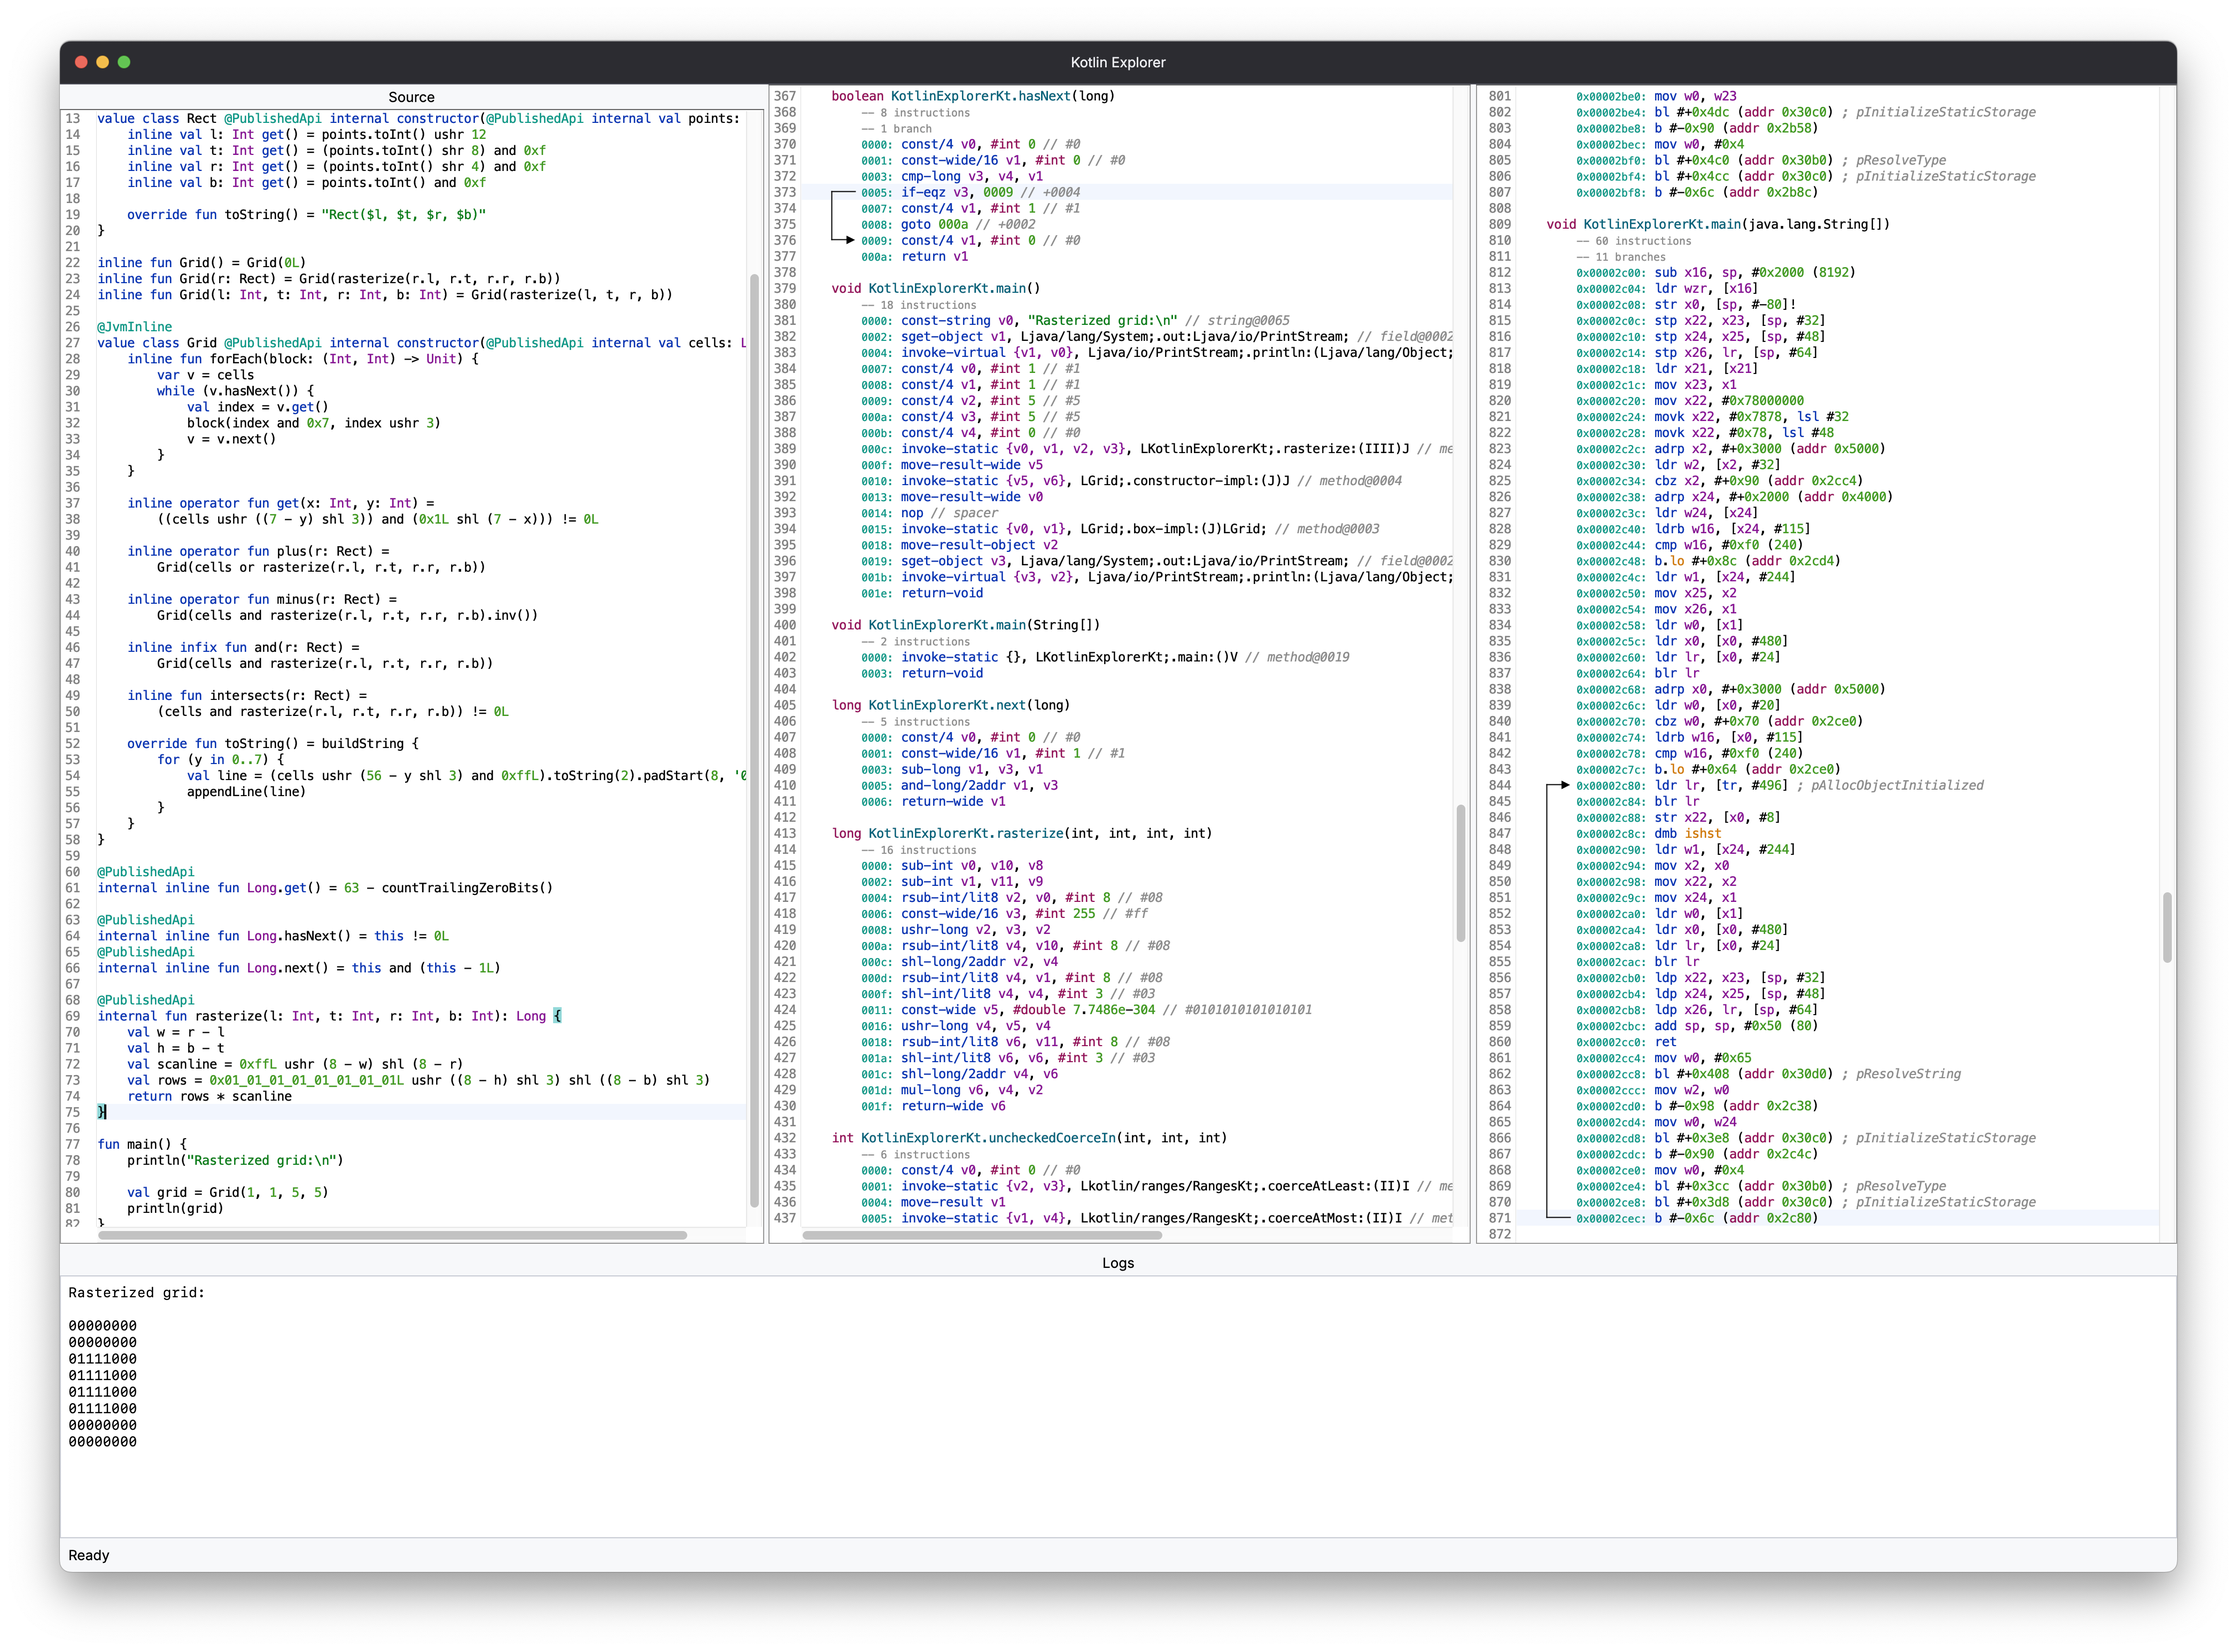
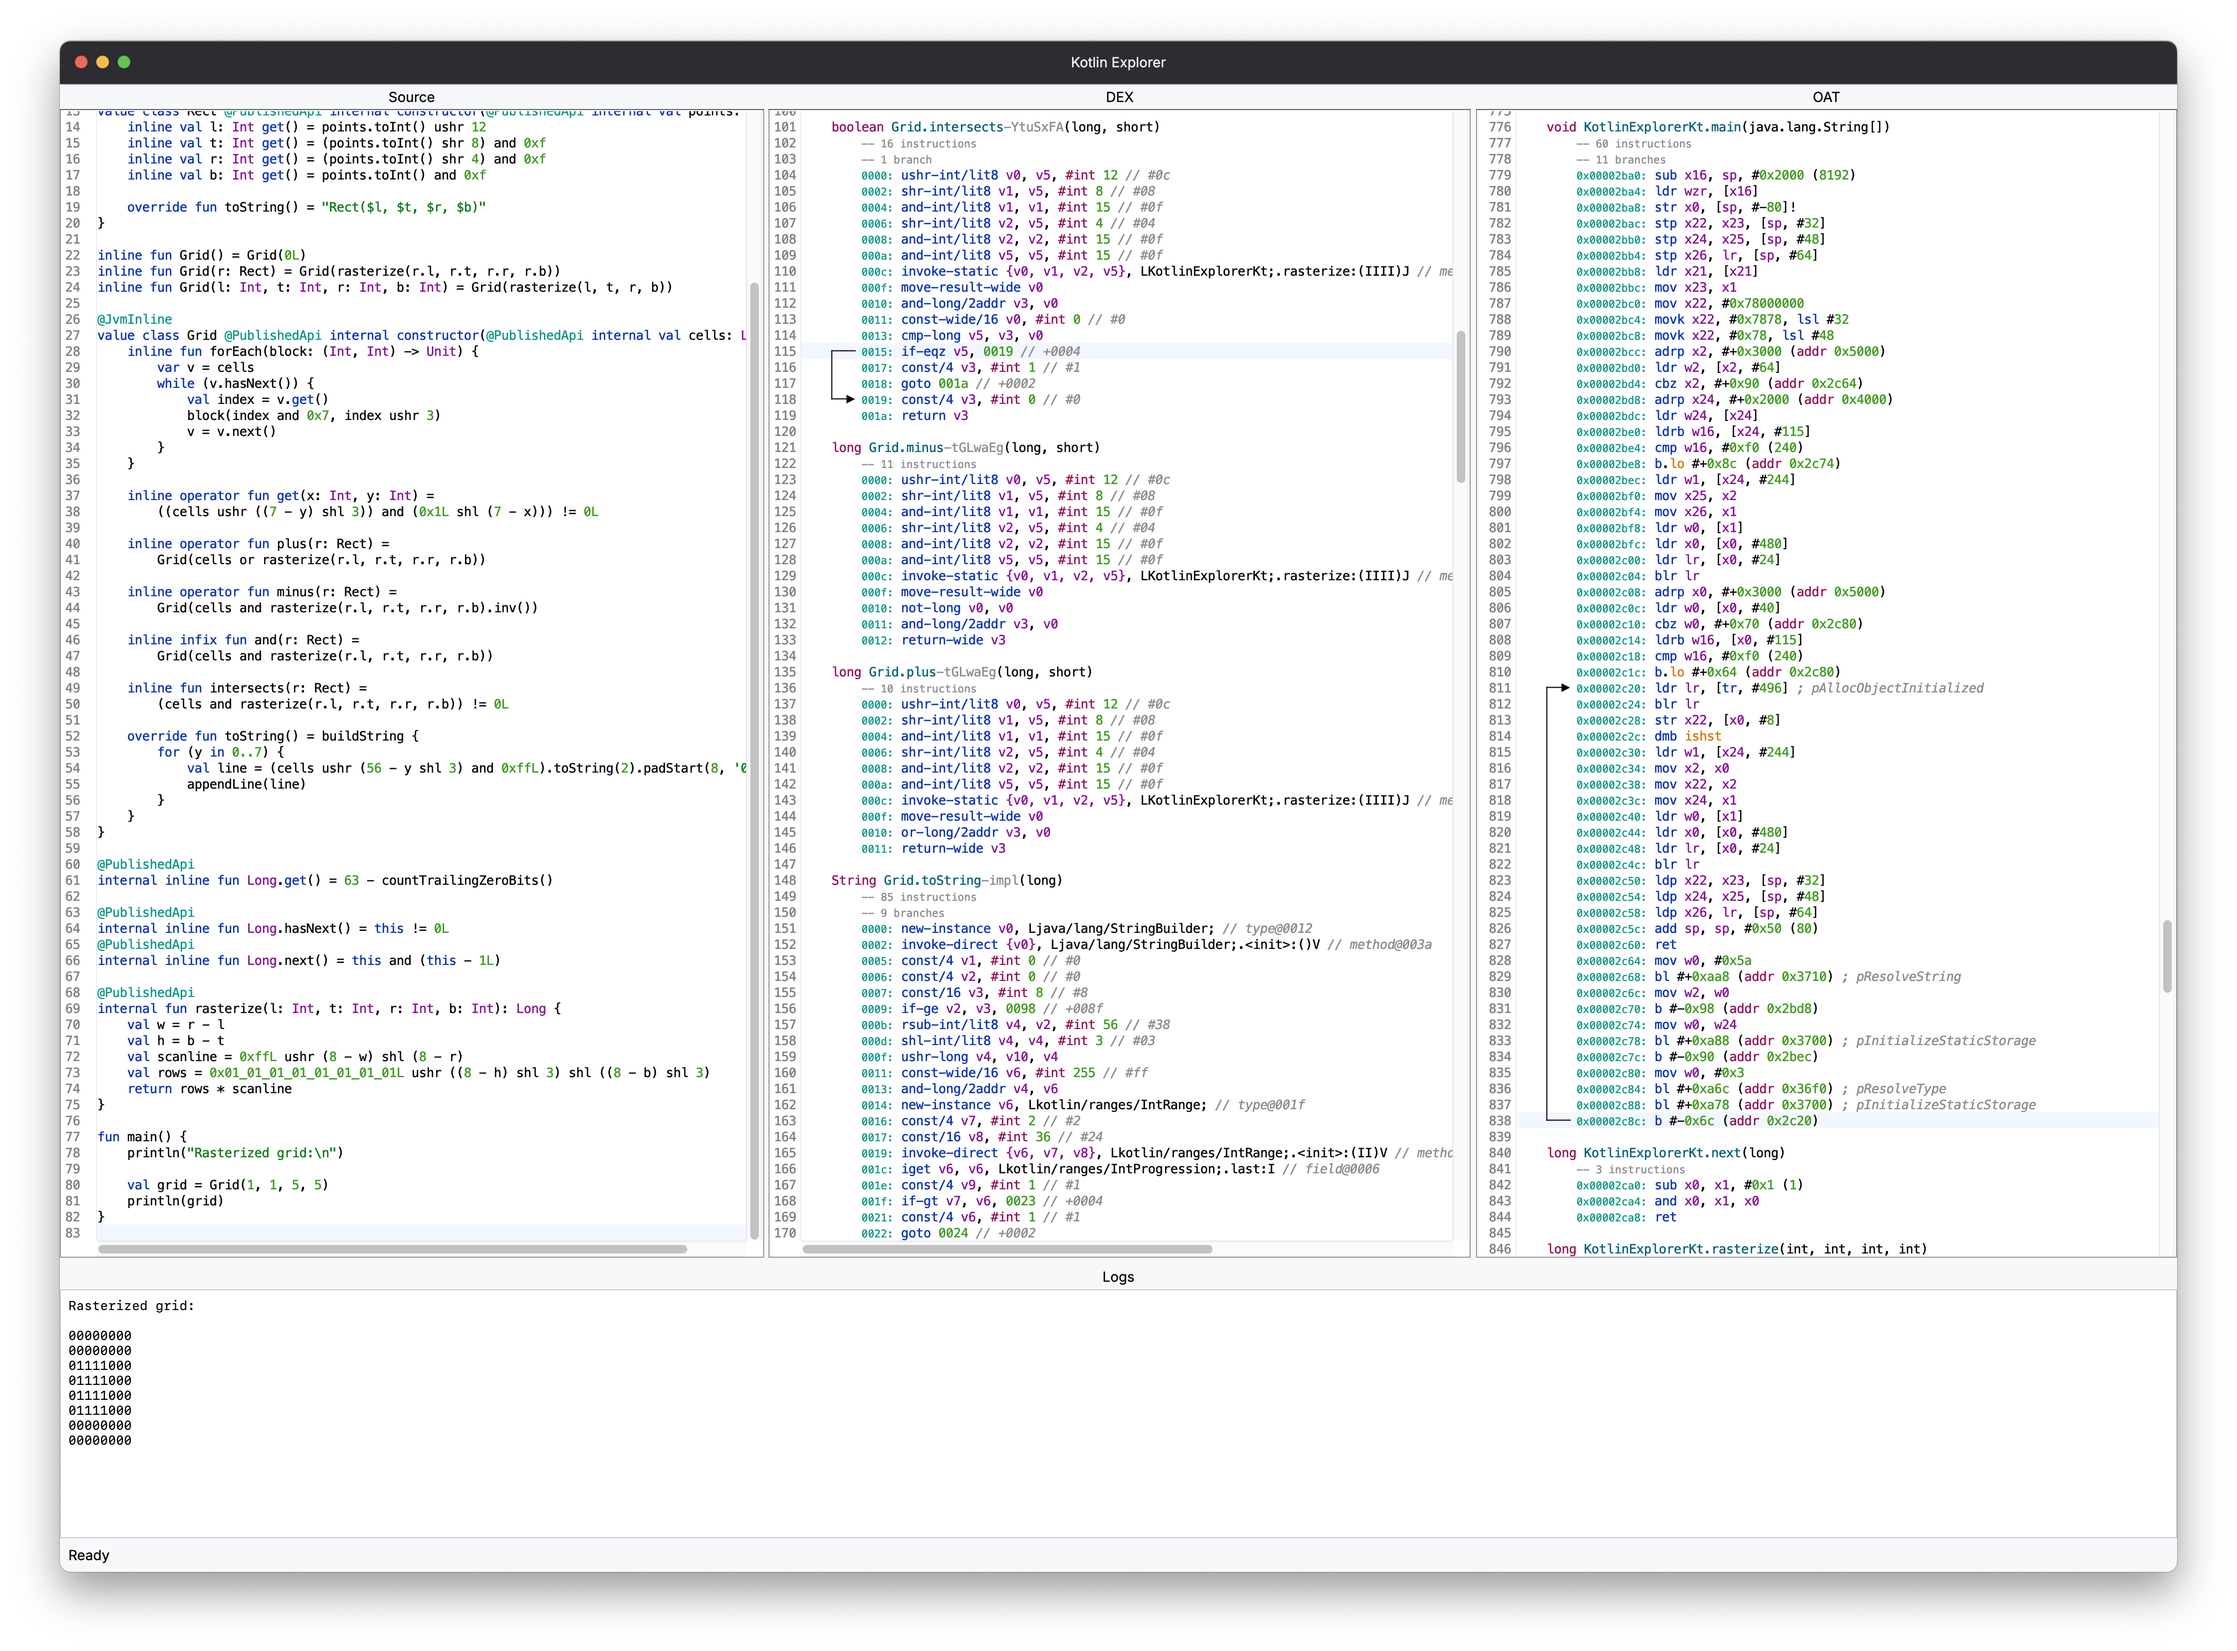
Restore logs selection

diff --git a/src/jvmMain/kotlin/dev/romainguy/kotlin/explorer/KotlinExplorer.kt b/src/jvmMain/kotlin/dev/romainguy/kotlin/explorer/KotlinExplorer.kt
@@ -51,6 +51,7 @@ import androidx.compose.ui.text.font.FontFamily
 import androidx.compose.ui.text.style.TextAlign.Companion.Center
 import androidx.compose.ui.unit.DpSize
 import androidx.compose.ui.unit.dp
+import androidx.compose.ui.unit.sp
 import androidx.compose.ui.window.*
 import androidx.compose.ui.window.WindowPosition.Aligned
 import dev.romainguy.kotlin.explorer.Shortcut.*
@@ -98,7 +99,6 @@ private const val FontSizePresentationMode = 20.0f
 
 private class UiState(val explorerState: ExplorerState, window: ComposeWindow) {
     var activeTextArea by mutableStateOf<RSyntaxTextArea?>(null)
-    var previousActiveTextArea by mutableStateOf<RSyntaxTextArea?>(null)
     var status by mutableStateOf("Ready")
     var progress by mutableStateOf(1f)
     var logs by mutableStateOf(AnnotatedString(""))
@@ -133,20 +133,10 @@ private class UiState(val explorerState: ExplorerState, window: ComposeWindow) {
     }
     val focusTracker = object : FocusListener {
         override fun focusGained(e: FocusEvent?) {
-            previousActiveTextArea = activeTextArea
             activeTextArea = e?.component as RSyntaxTextArea
         }
 
         override fun focusLost(e: FocusEvent?) {
-            // TODO: Bit of a hack to keep focus on the text areas. Without this, clicking
-            //       the background loses focus, so does opening/closing panels
-            if (e?.oppositeComponent !is RSyntaxTextArea) {
-                if (activeTextArea?.isShowing == true) {
-                    activeTextArea?.requestFocusInWindow()
-                } else {
-                    previousActiveTextArea?.requestFocusInWindow()
-                }
-            }
         }
     }
 
@@ -198,11 +188,11 @@ private fun FrameWindowScope.KotlinExplorer(
     val sourcePanel: @Composable () -> Unit =
         { SourcePanel(uiState.sourceTextArea, explorerState) }
     val byteCodePanel: @Composable () -> Unit =
-        { TextPanel(uiState.byteCodeTextArea, explorerState) }
+        { TextPanel(uiState.byteCodeTextArea, explorerState, "Byte Code") }
     val dexPanel: @Composable () -> Unit =
-        { TextPanel(uiState.dexTextArea, explorerState) }
+        { TextPanel(uiState.dexTextArea, explorerState, "DEX") }
     val oatPanel: @Composable () -> Unit =
-        { TextPanel(uiState.oatTextArea, explorerState) }
+        { TextPanel(uiState.oatTextArea, explorerState, "OAT") }
     var panels by remember { mutableStateOf(explorerState.getPanels(sourcePanel, byteCodePanel, dexPanel, oatPanel)) }
 
     MainMenu(
@@ -283,6 +273,7 @@ private fun LogsPanel(logs: AnnotatedString) {
             Text(
                 text = logs,
                 fontFamily = FontFamily.Monospace,
+                fontSize = 12.sp,
                 modifier = Modifier
                     .fillMaxSize()
                     .background(Color.White)
@@ -356,12 +347,15 @@ private fun SourcePanel(sourceTextArea: RSyntaxTextArea, explorerState: Explorer
 }
 
 @Composable
-private fun TextPanel(textArea: RSyntaxTextArea, explorerState: ExplorerState) {
-    SwingPanel(
-        modifier = Modifier.fillMaxSize(),
-        factory = { RTextScrollPane(textArea) },
-        update = { textArea.updateStyle(explorerState) }
-    )
+private fun TextPanel(textArea: RSyntaxTextArea, explorerState: ExplorerState, title: String) {
+    Column {
+        Title(title)
+        SwingPanel(
+            modifier = Modifier.fillMaxSize(),
+            factory = { RTextScrollPane(textArea) },
+            update = { textArea.updateStyle(explorerState) }
+        )
+    }
 }
 
 @Composable
